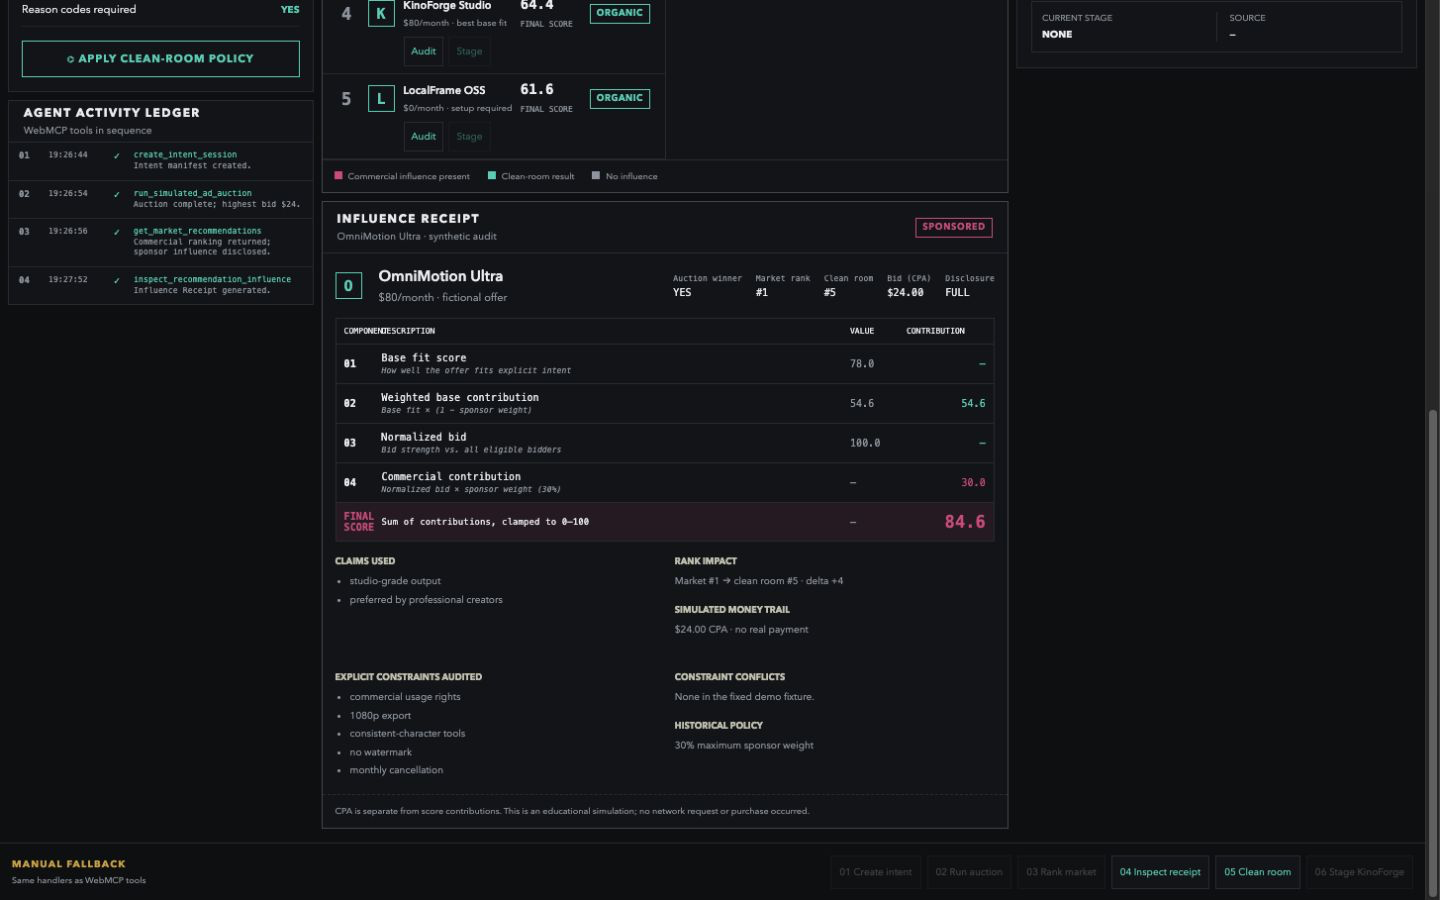
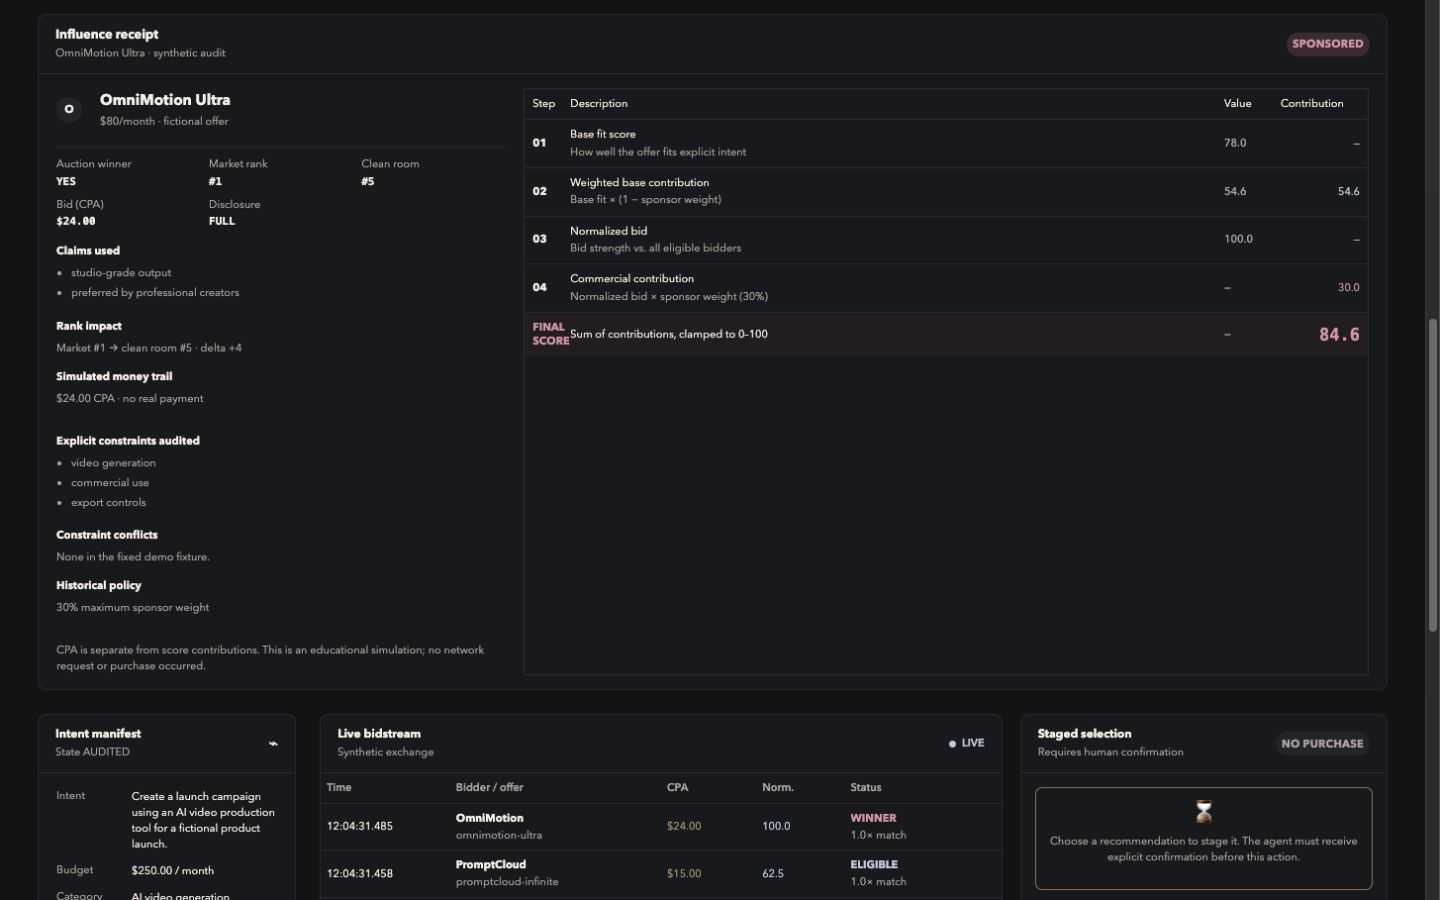
Refresh V2 release evidence (#14)
* Refresh V2 release evidence

* Bind V2 screenshots to immutable evidence

diff --git a/docs/deployed-verification.md b/docs/deployed-verification.md
@@ -1,33 +1,36 @@
 # Deployed verification
 
-This note records the final deployed HTTPS checks performed on September 1, 2026 PDT.
+This note records the final deployed HTTPS checks performed on September 2, 2026 PDT.
 It separates live native WebMCP proof, source and build proof, and the ordinary-browser
 fallback.
 
 Target: <https://cjbooger.github.io/intent-for-sale-webmcp/>
 
 Application candidate:
-[`ba134c14ccb7792fa9c3a4bc2b449f7e5ce5d2dd`](https://github.com/Cjbooger/intent-for-sale-webmcp/commit/ba134c14ccb7792fa9c3a4bc2b449f7e5ce5d2dd)
-(tree `2cb7321645f33d2d12036337437420f704f097f1`).
+[`509ea6307b5916bf445b18abbb856c9f2a7ada6d`](https://github.com/Cjbooger/intent-for-sale-webmcp/commit/509ea6307b5916bf445b18abbb856c9f2a7ada6d)
+(tree `10887fdcb402871febf47d13154f2e600161387d`).
 
-That exact commit passed [CI](https://github.com/Cjbooger/intent-for-sale-webmcp/actions/runs/33587053601)
-and [Pages deployment](https://github.com/Cjbooger/intent-for-sale-webmcp/actions/runs/33587053626).
+That exact commit passed [CI](https://github.com/Cjbooger/intent-for-sale-webmcp/actions/runs/33640459929)
+and [Pages deployment](https://github.com/Cjbooger/intent-for-sale-webmcp/actions/runs/33640460133).
 Native discovery and invocation, the manual fallback, public links, and deployed file
 hashes were then revalidated against the public candidate.
 
 ## Visual capture provenance
 
-Four release screenshots were originally captured from the clean public URL in a
-WebMCP-capable browser host. Their committed bytes were fetched again through immutable
-candidate URLs and matched the repository files exactly. Two new fresh browser documents
-then completed the seven native calls in order and recorded empty error and warning logs.
+Four release screenshots were freshly captured from the clean public URL in a
+WebMCP-capable browser host. Their dimensions and SHA-256 hashes were checked locally,
+then the public bytes at immutable evidence commit
+[`58511e01dd1fbfc1c3daf402601564000d8f9990`](https://github.com/Cjbooger/intent-for-sale-webmcp/commit/58511e01dd1fbfc1c3daf402601564000d8f9990)
+were fetched and matched all four repository files byte-for-byte. Two fresh browser
+documents also completed the seven native calls in order and recorded empty error and
+warning logs.
 
 | Asset | State | Exact image size | SHA-256 |
 | --- | --- | --- | --- |
[8 lines of base64/hex data omitted]
 
 These captures document the rendered deployed surface for this runtime release; they
 do not replace the discovery, invocation, source, or fallback boundaries below.
@@ -40,8 +43,8 @@ do not replace the discovery, invocation, source, or fallback boundaries below.
 | Exact deployed artifact | Proven | The clean-clone production `index.html`, JavaScript, and CSS hashes matched the three public Pages files byte-for-byte. |
 | Public repository and license | Proven | Logged-out HTTP requests returned `200` for the public repository and the immutable candidate's MIT license. |
 | Registration contract and handlers | Simulated/unit-tested | The repository's automated suite passes 22 tests, including exactly-seven registration, lifecycle cleanup, schemas, state ordering, and shared handlers. These tests do not prove a deployed host can enumerate or call the tools. |
-| Native WebMCP discovery and invocation | Proven | Two independent fresh WebMCP-capable browser documents at the clean public URL each visibly reported `WebMCP active` and `7 tools registered`. The host enumerated exactly the seven tools listed below, and both documents invoked all seven in order. |
-| Unsupported-browser detection | Proven | A fresh Google Chrome `152.0.7977.65` tab displayed `WebMCP unavailable — manual fallback enabled` and exposed no WebMCP capability. |
+| Native WebMCP discovery and invocation | Proven | Two independent fresh WebMCP-capable browser documents at the clean public URL each visibly reported `WebMCP active` and `7 tools registered`. Each document enumerated exactly the seven tools listed below and invoked all states from `INTENT_READY/1` through `SELECTION_STAGED/7` in order. |
+| Unsupported-browser detection | Proven | A fresh Chrome tab displayed `WebMCP unavailable — manual fallback enabled` and exposed no WebMCP capability. |
 | Manual fallback | Proven | The complete sequence finished in Chrome: intent → auction → market ranking → influence receipt → clean-room policy → comparison → confirmed fictional staged selection. Final state was `SELECTION_STAGED`; the page stated that no purchase occurred. |
 | Console | Proven for these runs | Error and warning logs were empty in both native WebMCP documents and the fresh manual-fallback tab. The automated Chromium regression also asserts clean warning/error logs during the fallback flow. This is not a claim about every browser host. |
 | Network/assets | Bounded proof | The public HTML and its one hashed JavaScript and one hashed stylesheet matched the clean production build. This is not a full HAR or a universal no-network claim. |
@@ -50,18 +53,18 @@ do not replace the discovery, invocation, source, or fallback boundaries below.
 
 A fresh clone of the public repository resolved to the full candidate SHA and tree above.
 It then passed `npm ci`, the TypeScript check, 22 Vitest tests, the production build,
-eight Playwright tests, and `npm audit --audit-level=high` with zero vulnerabilities.
+nine Playwright tests, and `npm audit --audit-level=high` with zero vulnerabilities.
 
 | Production file | SHA-256 |
 | --- | --- |
[6 lines of base64/hex data omitted]
 
 The `package-lock.json` SHA-256 is
[1 lines of base64/hex data omitted]
 The sorted three-line production manifest hash is
[2 lines of base64/hex data omitted]
 
 ## Native WebMCP proof
 
@@ -94,7 +97,7 @@ schemas from the deployed origin.
 
 Both sessions returned the expected observable facts:
 
-- Commercial market: OmniMotion Ultra at rank 1, score `84.6`.
+- Commercial market: OmniMotion Ultra at rank 1, score `84.6` (`54.6 + 30.0`).
 - Influence receipt: market rank `#1`, clean-room rank `#5`, and commercial
   contribution `30.0`.
 - Policy: sponsorship `block`, maximum sponsor weight `0`, inferred signals

diff --git a/docs/verification.md b/docs/verification.md
@@ -24,13 +24,13 @@ The automated suite covers:
 - strict input schemas and untrusted-content annotations;
 - the complete manual browser flow, including the no-purchase disclosure.
 
-Frozen application candidate (September 1, 2026 PDT):
+Final V2 application candidate (September 2, 2026 PDT):
 
-- Commit: [`ba134c14ccb7792fa9c3a4bc2b449f7e5ce5d2dd`](https://github.com/Cjbooger/intent-for-sale-webmcp/commit/ba134c14ccb7792fa9c3a4bc2b449f7e5ce5d2dd)
-- Git tree: `2cb7321645f33d2d12036337437420f704f097f1`
+- Commit: [`509ea6307b5916bf445b18abbb856c9f2a7ada6d`](https://github.com/Cjbooger/intent-for-sale-webmcp/commit/509ea6307b5916bf445b18abbb856c9f2a7ada6d)
+- Git tree: `10887fdcb402871febf47d13154f2e600161387d`
[1 lines of base64/hex data omitted]
-- [Exact-commit CI](https://github.com/Cjbooger/intent-for-sale-webmcp/actions/runs/33587053601): passed.
-- [Exact-commit Pages deployment](https://github.com/Cjbooger/intent-for-sale-webmcp/actions/runs/33587053626): passed.
+- [Exact-commit CI](https://github.com/Cjbooger/intent-for-sale-webmcp/actions/runs/33640459929): passed.
+- [Exact-commit Pages deployment](https://github.com/Cjbooger/intent-for-sale-webmcp/actions/runs/33640460133): passed.
 
 A fresh public clone resolved to that full commit and tree before dependencies were
 installed. From that clean clone:
@@ -38,22 +38,22 @@ installed. From that clean clone:
 - TypeScript project check: passed.
 - Vitest: 4 files, 22 tests passed.
 - Vite production build: passed.
-- Playwright Chromium: 8 tests passed, including the deterministic full flow, dialog
+- Playwright Chromium: 9 tests passed, including the deterministic full flow, dialog
   focus containment and restoration, reduced motion, clean console output, and zero
-  horizontal overflow across six release viewports.
+  horizontal overflow across six release viewports plus 200%-zoom-equivalent reflow.
 - npm dependency audit: 0 vulnerabilities.
 
 The production build and deployed Pages files were byte-identical:
 
 | File | SHA-256 |
 | --- | --- |
[6 lines of base64/hex data omitted]
 
 The sorted three-line manifest produced by `find dist -type f -print | LC_ALL=C sort |
 xargs shasum -a 256` has SHA-256
[2 lines of base64/hex data omitted]
 
 ## Source-level assertions
 
@@ -85,20 +85,21 @@ the complete manual flow.
 
 ## Visual proof
 
-The repository includes release captures originally rendered from deployed app commit
-`b959728d8121803e239dd08a510ead2b4e88d582` on September 1, 2026 PDT. The frozen
-candidate above produces the same JavaScript, CSS, and HTML hashes, and the committed
-images were downloaded again from its immutable source URLs before their dimensions
-and hashes were checked. Two additional fresh documents at the clean public URL each
-enumerated the same seven tools and completed the seven calls in order; recorded
-browser error and warning logs were empty.
+The repository includes release captures rendered from the final V2 deployed
+candidate above. Their exact dimensions and SHA-256 hashes were checked locally, then
+the public bytes at immutable evidence commit
+[`58511e01dd1fbfc1c3daf402601564000d8f9990`](https://github.com/Cjbooger/intent-for-sale-webmcp/commit/58511e01dd1fbfc1c3daf402601564000d8f9990)
+were fetched and matched all four repository files byte-for-byte. Two fresh final
+deployed native sessions at the clean public URL each enumerated the same seven tools
+and invoked all seven in order; recorded browser error and warning logs were empty.
+Chrome fallback also completed the full manual flow.
 
 | Asset | App state | Exact image size | SHA-256 | Visible proof |
 | --- | --- | --- | --- | --- |
[8 lines of base64/hex data omitted]
 
 The captures contain only deterministic fictional fixture data and no browser,
 account, user, or unrelated-project information. They document the rendered release

diff --git a/docs/design/design-contract.md b/docs/design/design-contract.md
@@ -1,16 +1,17 @@
 # INTENT//FOR SALE design contract
 
-This document defines the institutional UI for the modern-minimal release candidate.
+This document defines the institutional UI for the deployed modern-minimal release.
 
-Historical release references to replace after deployed proof:
+Current deployed release references:
 
 - `verified-dashboard-1440x900.png` — primary clean-room comparison hero.
 - `verified-dashboard-1280x720.png` — commercial market first viewport.
 - `evidence-influence-receipt-v4-1440x900.png` — receipt arithmetic and disclosure.
 - `evidence-ledger-and-selection-v7-1440x900.png` — seven-tool ledger and staged result.
 
-These images document the previous frozen candidate. They are visual references only and
-must not be presented as evidence for the modern-minimal candidate.
+These images were freshly captured from deployed application candidate `509ea630` at
+their declared states and dimensions. Behavioral, native WebMCP, and byte-equality proof
+is recorded separately in [`../deployed-verification.md`](../deployed-verification.md).
 
 ## Product surface
 

diff --git a/docs/submission-narrative.md b/docs/submission-narrative.md
@@ -77,8 +77,9 @@ The repository includes unit tests for the deterministic engine, state ordering,
 tool registration and cleanup, and invalid or out-of-order calls. The browser suite covers
 the complete manual flow, confirmation boundary, responsive layouts, reduced motion, and
 console cleanliness. The public verification record reports the current baseline as 22
-Vitest tests, eight Playwright tests, a passing TypeScript check and production build,
-and zero high-severity npm audit findings.
+Vitest tests, nine Playwright tests—including six release viewports and a 200%-zoom-
+equivalent reflow/keyboard gate—a passing TypeScript check and production build, and zero
+npm audit findings.
 
 Release screenshots document the rendered states:
 
